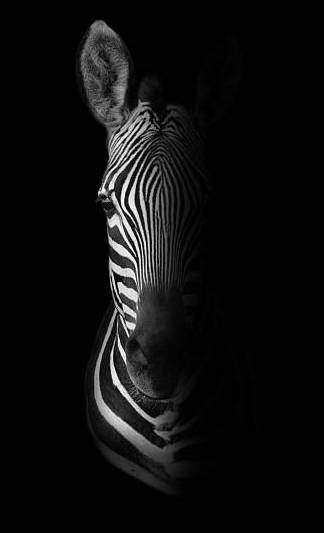
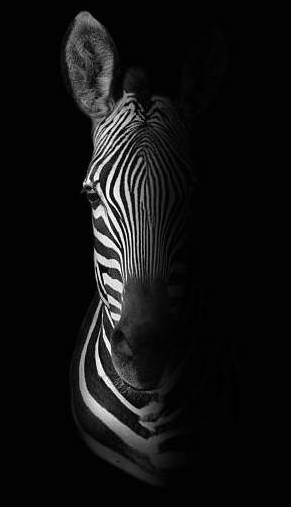
improved responsiveness

Changed region(s): [[0.2165, 0.0, 0.5876, 0.9467]]

diff --git a/index.html b/index.html
@@ -70,8 +70,8 @@
         <div class="row">
           <div class="col-sm-4 pt-3">
             <img
-              src="/images/about me.jpeg"
-              class="img-fluid max-width:100%"
+              src="/images/main zebra.jpeg"
+              class="img-fluid max-width:100% hero-photo"
               alt="zebra banner black and white"
             />
           </div>
@@ -103,7 +103,7 @@
         <h2 class="mt-4 text-center mb-5 ">WHAT I CAN OFFER</h2>
       </div>
  <div class="col-sm-3">
-   <hr class="mt-5 pt-1" />
+   <hr class="d-none d-sm-block mt-5 pt-1" />
       </div>
 
 <!-- SLOGAN -->
@@ -180,11 +180,11 @@
       <div class="col-sm-4">
         <h2 class="mt-4 text-center"> SERIVICES </h2>
       </div>
-      <div class="col-sm-3"><hr class="mt-5 pt-1" /></div>
+      <div class="col-sm-3"><hr class="d-none d-sm-block mt-5 pt-1" /></div>
       <div class="col-sm-2"></div>
     <div class="row section mb-5 content-container">
     
-      <div class="col-sm-4 mb-2">
+      <div class="col-sm-4 mb-2 mt-4">
        <div class="card service-cards rounded shadow text-center">
         <div class="card-body">
          <h5 class="card-title">MOBILE FRIENDLY</h5>
@@ -236,7 +236,7 @@
       <div class="col-sm-4">
         <h2 class="mt-4 text-center mb-5 ">PREVIOUS WORK</h2>
       </div>
-      <div class="col-sm-3"><hr class="mt-5 pt-1" />
+      <div class="col-sm-3"><hr class="d-none d-sm-block mt-5 pt-1" />
       </div>
       <div class="col-sm-2">
       </div>
@@ -259,7 +259,7 @@
       <div class="col-sm-4">
         <h2 class="mt-4 text-center"> LANGUAGES</h2>
       </div>
-      <div class="col-sm-3"><hr class="mt-5 pt-1" /></div>
+      <div class="col-sm-3"><hr class="d-none d-sm-block mt-5 pt-1" /></div>
       <div class="col-sm-2"></div>
 
 <div class="col-sm-4 mb-3 mt-5">
@@ -289,7 +289,7 @@
       <div class="col-sm-4">
         <h2 class="mt-4 text-center mb-5 ">GET IN TOUCH</h2>
       </div>
-      <div class="col-sm-3"><hr class="mt-5 pt-1" />
+      <div class="col-sm-3"><hr class="d-none d-sm-block mt-5 pt-1" />
       </div>
       <div class="col-sm-2">
       </div>
@@ -312,7 +312,7 @@
       <a
               href="https://github.com/CelineMsn/Website-Celine-v2"
               target="_blank"
-              ><p><span> Open-source code</span>
+              ><p><span> OS code</span>
             </a> 
             Hosted on
              <a href="https://app.netlify.com/sites/fantastic-semolina-9fc2cb/overview" target="_blank"

diff --git a/portfolio.html b/portfolio.html
@@ -185,11 +185,11 @@
         <div class="content-container row mb-3 mt-3">
           <div class="col">
             <div class="project-desciption text-end ms-3">
-              <h2 class="mb-3 mt-5">Your Futur Website</h2>
+              <h2 class="mb-3 mt-2">Your Futur Website</h2>
               <p class="mb-3 mt-3 text-muted">
                 Create excellence through HTML, Responsive CSS, JavaScript/React
               </p>
-              <a href="/contact.html" class="btn btn-branding-outline">
+              <a href="/contact.html" class="btn btn-branding-outline mb-5">
                 Contact Me
               </a>
               <br />
@@ -226,7 +226,7 @@
       <a
               href="https://github.com/CelineMsn/Website-Celine-v2"
               target="_blank"
-              ><p><span> Open-source code</span>
+              ><p><span> OS code</span>
             </a> 
             Hosted on
              <a href="https://app.netlify.com/sites/fantastic-semolina-9fc2cb/overview" target="_blank"

diff --git a/src/style.css b/src/style.css
@@ -388,18 +388,37 @@ a .hyperlink:hover {
   display: flex;
   justify-content: space-evenly;
 }
+
+@media (max-width: 1150px) {
+  h1 {
+    font-size: 55px;
+  }
+
+@media (max-width: 800px) {
+  h1 {  
+    font-size: 50px;
+  }
+   h2 {
+    padding: 10px 5px;
+  }
 @media (max-width: 576px) {
   h1 {
     text-align: center;
-    font-size: 55px;
+    font-size: 45px;
   }
   h2 {
+    text-align: center;
+    padding: 10px 5px;
+    font-size: 20;
+  }
+  h4{
     text-align: center;
     padding: 10px 5px;
   }
   img {
     padding: 0;
     margin: 0;
+    text-align: center;
     max-width: fit-content;
   }
   .contact-card h6,
@@ -431,6 +450,7 @@ a .hyperlink:hover {
   }
   .content-container {
     padding: 0;
+    text-align: center;
   }
   .bottom-margin {
     padding-bottom: 0px;

diff --git a/about.html b/about.html
@@ -851,7 +851,7 @@
       <a
               href="https://github.com/CelineMsn/Website-Celine-v2"
               target="_blank"
-              ><p><span> Open-source code</span>
+              ><p><span> OS code</span>
             </a> 
             Hosted on
              <a href="https://app.netlify.com/sites/fantastic-semolina-9fc2cb/overview" target="_blank"

diff --git a/contact.html b/contact.html
@@ -129,7 +129,7 @@
       <a
               href="https://github.com/CelineMsn/Website-Celine-v2"
               target="_blank"
-              ><p><span> Open-source code</span>
+              ><p><span> OS code</span>
             </a> 
             Hosted on
              <a href="https://app.netlify.com/sites/fantastic-semolina-9fc2cb/overview" target="_blank"
